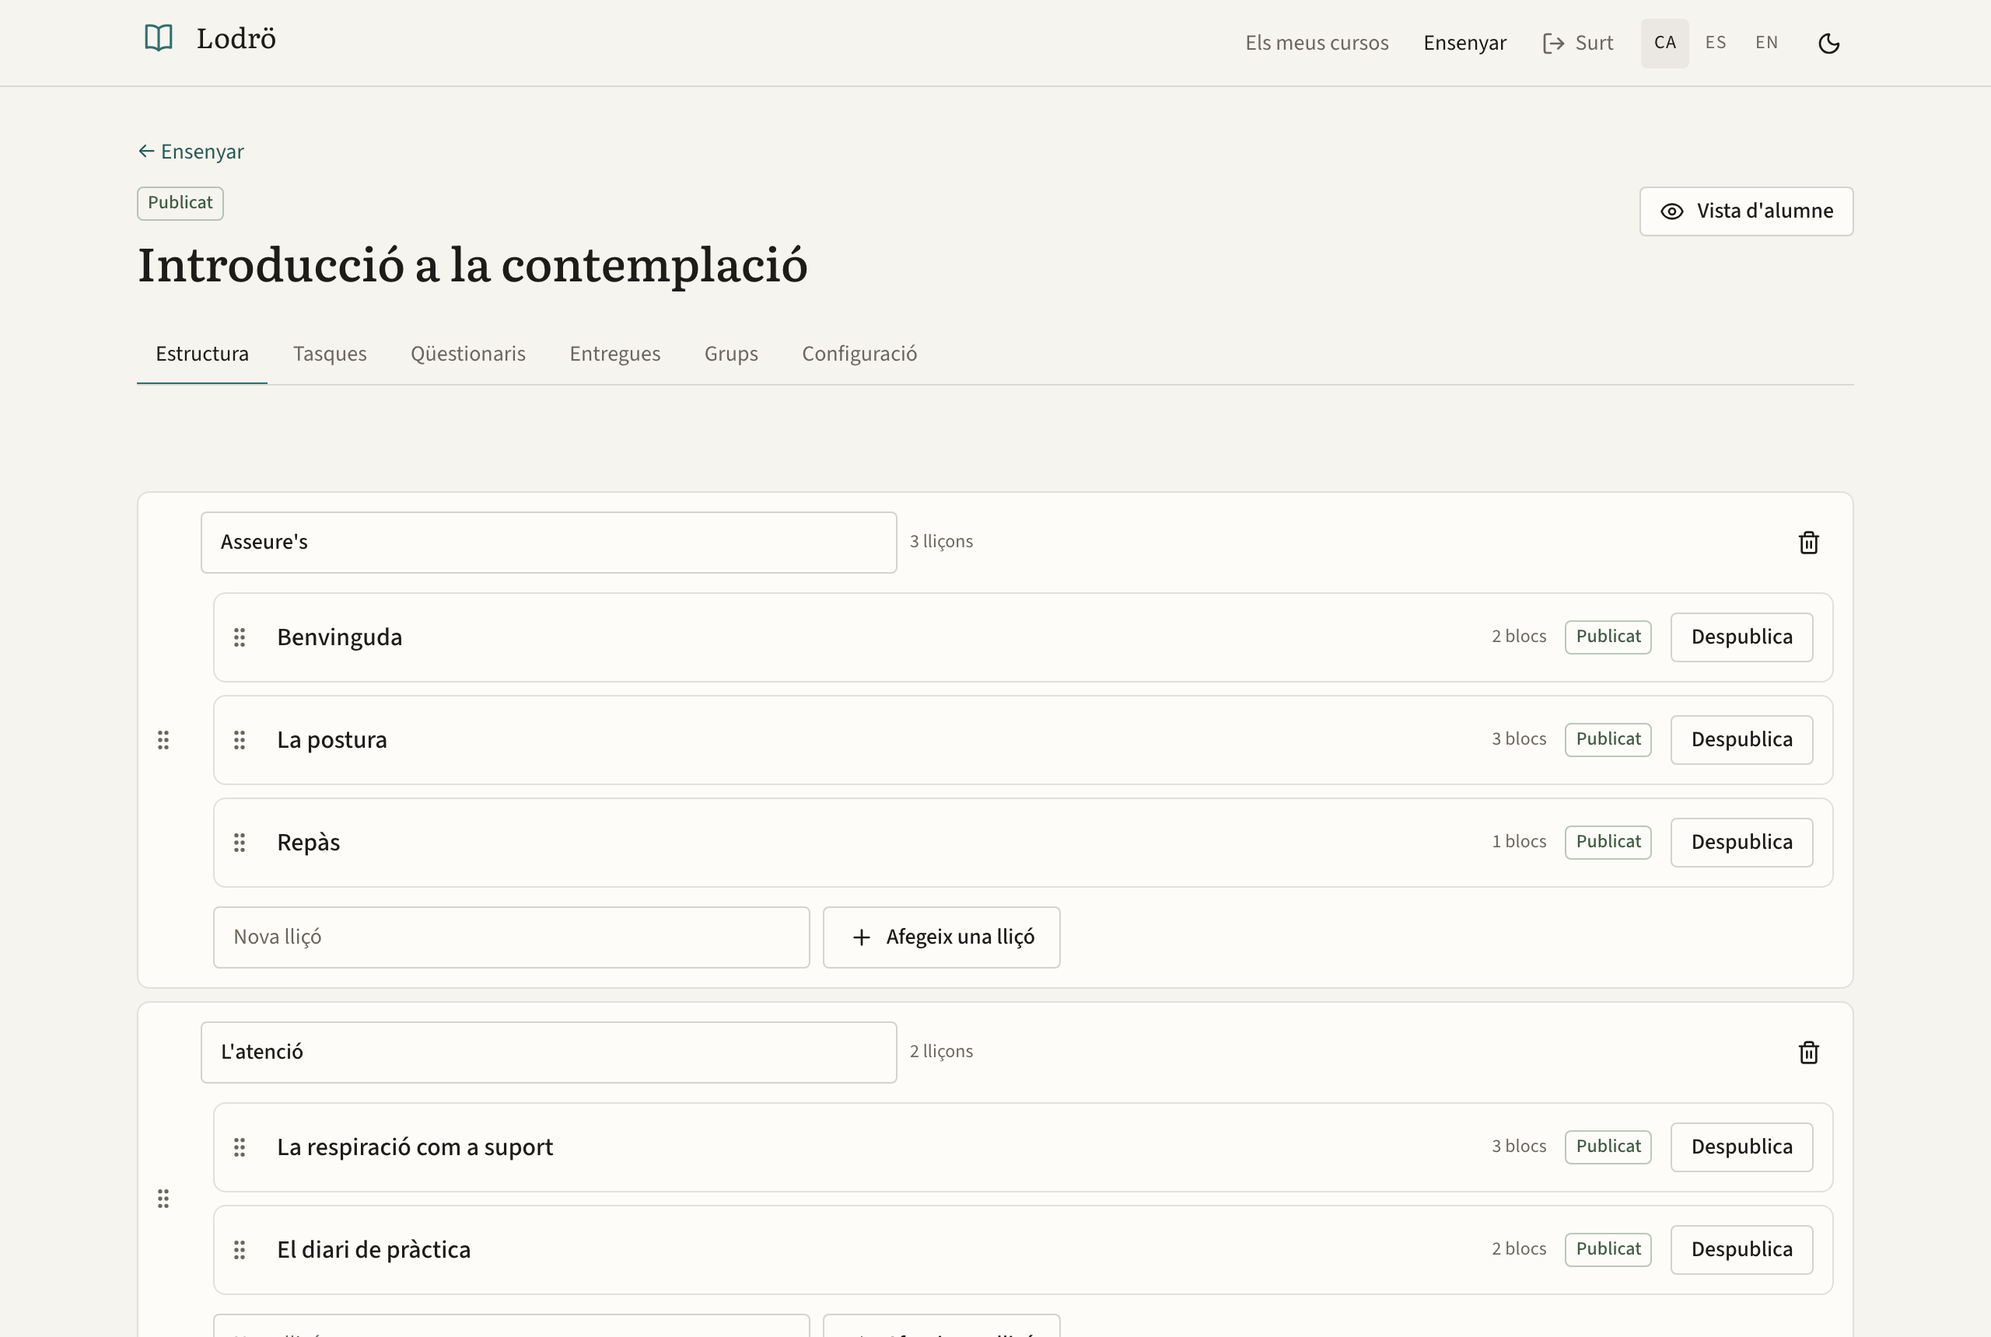
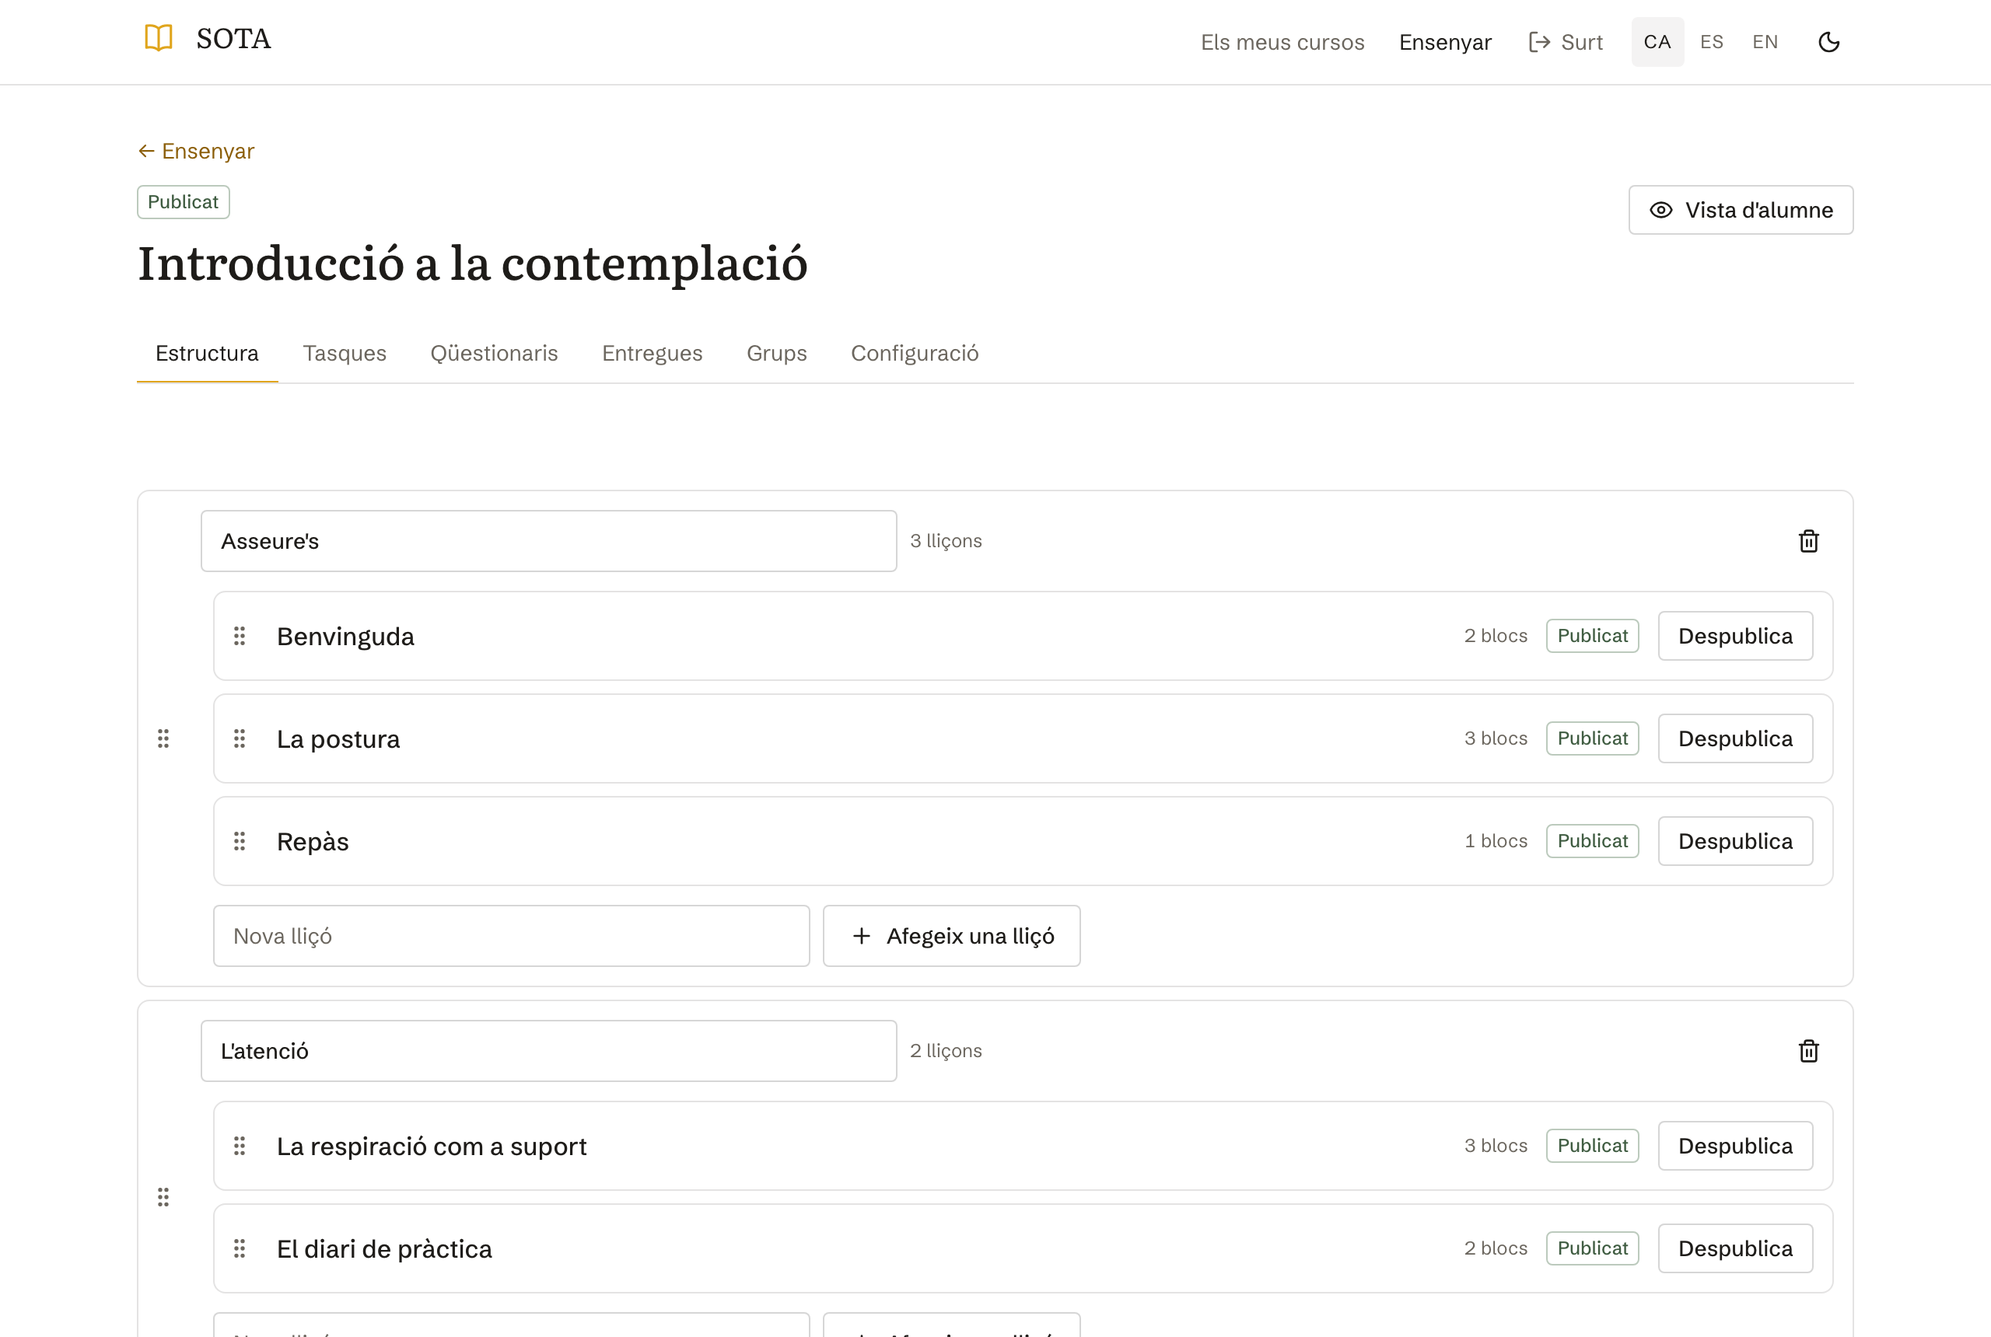
💄 Set Schibsted Grotesk for the interface, white page and gold accent

diff --git a/src/styles.css b/src/styles.css
@@ -1,8 +1,8 @@
 @import "tailwindcss";
 @import "@fontsource-variable/literata";
 @import "@fontsource-variable/literata/wght-italic.css";
-@import "@fontsource-variable/source-sans-3";
-@import "@fontsource-variable/source-sans-3/wght-italic.css";
+@import "@fontsource-variable/schibsted-grotesk";
+@import "@fontsource-variable/schibsted-grotesk/wght-italic.css";
 
 @custom-variant dark (&:is(.dark *));
 
@@ -61,7 +61,8 @@
 }
 
 :root {
-  --font-sans: "Source Sans 3 Variable", ui-sans-serif, system-ui, sans-serif;
+  --font-sans:
+    "Schibsted Grotesk Variable", ui-sans-serif, system-ui, "Segoe UI", Helvetica, Arial, sans-serif;
   --font-serif: "Literata Variable", Georgia, "Iowan Old Style", "Times New Roman", serif;
   --font-mono:
     ui-monospace, SFMono-Regular, Menlo, Monaco, Consolas, "Liberation Mono", "Courier New",
@@ -71,16 +72,16 @@
 
   /* Paper and ink. `--brand-*` may be overridden from lms.config.ts (see BrandStyle). */
   --ink: #1e1c19;
-  --paper: #f6f4ef;
-  --brand-primary: #2f6f6d;
-  --brand-primary-foreground: #f6f4ef;
-  --brand-link: #255a58;
+  --paper: #ffffff;
+  --brand-primary: #e0a51c;
+  --brand-primary-foreground: #1e1c19;
+  --brand-link: #8c5f0a;
 
   --background: var(--paper);
   --foreground: var(--ink);
-  --card: #fdfcf9;
+  --card: #ffffff;
   --card-foreground: var(--ink);
-  --popover: #fdfcf9;
+  --popover: #ffffff;
   --popover-foreground: var(--ink);
   --muted: --alpha(var(--ink) / 5%);
   --muted-foreground: #6b665e;
@@ -90,14 +91,14 @@
   --input: --alpha(var(--ink) / 18%);
   --primary: var(--brand-primary);
   --primary-foreground: var(--brand-primary-foreground);
-  --ring: var(--brand-primary);
+  --ring: var(--brand-link); /* gold is too light for a 3:1 focus ring on white */
   --secondary: --alpha(var(--ink) / 6%);
   --secondary-foreground: var(--ink);
   --link: var(--brand-link);
   --success: #587a5a;
   --success-foreground: #3f5c41;
-  --warning: #b8862d;
-  --warning-foreground: #7f5a17;
+  --warning: #c2661d;
+  --warning-foreground: #8a4712;
   --destructive: #a34a3e;
   --destructive-foreground: #8a3a30;
   --info: #4b6a8a;
@@ -108,9 +109,10 @@
 .dark {
   --ink: #e9e5dc;
   --paper: #161514;
-  --brand-primary: #7fb5b2;
+  --brand-primary: #f0c455;
   --brand-primary-foreground: #161514;
-  --brand-link: #8fc3c0;
+  --brand-link: #f0c455;
+  --ring: var(--brand-primary);
 
   --card: #1e1c1a;
   --popover: #1e1c1a;
@@ -122,8 +124,8 @@
   --secondary: --alpha(var(--ink) / 7%);
   --success: #8bab8c;
   --success-foreground: #a9c4aa;
-  --warning: #d1a655;
-  --warning-foreground: #e2c07d;
+  --warning: #dd8f52;
+  --warning-foreground: #e8ab7c;
   --destructive: #c8776b;
   --destructive-foreground: #dc9c92;
   --info: #93accb;
@@ -155,7 +157,7 @@
   h2,
   h3,
   h4 {
-    @apply font-semibold tracking-tight;
+    @apply font-semibold tracking-[-0.01em];
     text-wrap: balance;
   }
   a {

diff --git a/src/server/services/email/templates.ts b/src/server/services/email/templates.ts
@@ -33,11 +33,11 @@ function layout(
   cta: { label: string; url: string },
 ): Rendered {
   const text = [title, "", ...lines, "", `${cta.label}: ${cta.url}`, "", `— ${brand}`].join("\n");
-  const html = `<!doctype html><html><body style="margin:0;padding:24px;background:#f6f4ef;color:#1e1c19;font:16px/1.5 Georgia,serif">
-<div style="max-width:560px;margin:0 auto;background:#fdfcf9;border:1px solid rgba(30,28,25,.12);border-radius:8px;padding:28px">
+  const html = `<!doctype html><html><body style="margin:0;padding:24px;background:#ffffff;color:#1e1c19;font:16px/1.5 Georgia,serif">
+<div style="max-width:560px;margin:0 auto;background:#ffffff;border:1px solid rgba(30,28,25,.12);border-radius:8px;padding:28px">
 <h1 style="font-size:22px;font-weight:500;margin:0 0 16px">${esc(title)}</h1>
 ${lines.map((l) => `<p style="margin:0 0 12px">${esc(l)}</p>`).join("")}
-<p style="margin:24px 0 0"><a href="${esc(cta.url)}" style="display:inline-block;padding:10px 16px;background:#2f6f6d;color:#f6f4ef;text-decoration:none;border-radius:4px;font-family:system-ui,sans-serif;font-size:14px">${esc(cta.label)}</a></p>
+<p style="margin:24px 0 0"><a href="${esc(cta.url)}" style="display:inline-block;padding:10px 16px;background:#e0a51c;color:#1e1c19;text-decoration:none;border-radius:4px;font-family:system-ui,sans-serif;font-size:14px">${esc(cta.label)}</a></p>
 </div><p style="max-width:560px;margin:16px auto 0;font:12px system-ui,sans-serif;color:#6b665e">${esc(brand)}</p></body></html>`;
   return { subject: title, text, html };
 }

diff --git a/src/routes/_authed/admin/index.tsx b/src/routes/_authed/admin/index.tsx
@@ -22,9 +22,9 @@ function PeoplePage() {
   const navigate = useNavigate({ from: Route.fullPath });
   return (
     <div className="flex flex-col gap-4">
-      <div className="flex flex-wrap items-center justify-between gap-3">
-        <label className="flex w-full max-w-sm flex-col gap-1">
-          <span className="sr-only">{t("common.search")}</span>
+      <div className="flex flex-wrap items-end justify-between gap-3">
+        <label className="flex w-full max-w-sm flex-col gap-1.5">
+          <span className="text-sm font-medium">{t("common.search")}</span>
           <Input
             type="search"
             placeholder={t("admin.people.search")}

diff --git a/docs/DESIGN.md b/docs/DESIGN.md
@@ -1,7 +1,7 @@
 # SOTA — visual rules
 
-SOTA is a place to read, watch and think. The interface should feel like good paper: warm, quiet,
-legible, with one restrained accent and nothing that shouts. Light is the default (lessons are
+SOTA is a place to read, watch and think. The interface should feel like a well-set page: white,
+quiet, legible, with warm ink, one gold accent and nothing that shouts. Light is the default (lessons are
 read); dark is a stored preference. Depth comes from hairlines and spacing, not shadows. The tokens
 in `src/styles.css` are the only source of colour, radius, type and easing in the repo; brand
 overrides (name, logo, accent) come from `lms.config.ts` and are applied as CSS variables at the
@@ -9,18 +9,22 @@ root, never as new utilities.
 
 ## Palette roles
 
-| Token                                       | Light                                             | Dark       | Use                                                            |
-| ------------------------------------------- | ------------------------------------------------- | ---------- | -------------------------------------------------------------- |
-| `--background`                              | `#f6f4ef` paper                                   | `#161514`  | page canvas                                                    |
-| `--card` / `--popover`                      | `#fdfcf9`                                         | `#1e1c1a`  | surfaces                                                       |
-| `--foreground`                              | `#1e1c19` ink                                     | `#e9e5dc`  | text                                                           |
-| `--muted-foreground`                        | `#6b665e`                                         | `#a39d92`  | secondary text, metadata                                       |
-| `--border`                                  | ink at 12 %                                       | paper 10 % | hairlines                                                      |
-| `--accent`                                  | ink at 5 %                                        | paper 6 %  | hover and selected backgrounds                                 |
-| `--primary`                                 | `#2f6f6d` lake                                    | `#7fb5b2`  | **actions and progress only** — one filled button per screen   |
-| `--link`                                    | `#255a58`                                         | `#8fc3c0`  | inline links (darker than primary for AA on paper)             |
-| `--success` / `--warning` / `--destructive` | `#587a5a` moss · `#b8862d` amber · `#a34a3e` clay | tuned      | states, always paired with a word or glyph, never colour alone |
-| `--info`                                    | `#4b6a8a`                                         | `#93accb`  | neutral notices                                                |
+| Token                                       | Light                                            | Dark                              | Use                                                            |
+| ------------------------------------------- | ------------------------------------------------ | --------------------------------- | -------------------------------------------------------------- |
+| `--background`                              | `#ffffff`                                        | `#161514`                         | page canvas                                                    |
+| `--card` / `--popover`                      | `#ffffff`                                        | `#1e1c1a`                         | surfaces, set apart by a hairline, not by a fill               |
+| `--foreground`                              | `#1e1c19` ink                                    | `#e9e5dc`                         | text                                                           |
+| `--muted-foreground`                        | `#6b665e`                                        | `#a39d92`                         | secondary text, metadata                                       |
+| `--border`                                  | ink at 12 %                                      | paper 10 %                        | hairlines                                                      |
+| `--accent`                                  | ink at 5 %                                       | paper 6 %                         | hover and selected backgrounds                                 |
+| `--primary`                                 | `#e0a51c` gold, ink text (7.7:1)                 | `#f0c455`                         | **actions and progress only** — one filled button per screen   |
+| `--link`                                    | `#8c5f0a` ochre (5.6:1 on white)                 | `#f0c455`                         | inline links and the focus ring in light; gold is too pale     |
+| `--success` / `--warning` / `--destructive` | `#587a5a` moss · `#c2661d` rust · `#a34a3e` clay | `#8bab8c` · `#dd8f52` · `#c8776b` | states, always paired with a word or glyph, never colour alone |
+| `--info`                                    | `#4b6a8a`                                        | `#93accb`                         | neutral notices                                                |
+
+Each state colour has a `-foreground` twin for text (`#3f5c41`, `#8a4712`, `#8a3a30`, `#3c5670` in
+light) so words stay above 4.5:1 while the fill stays recognisable. Warning moved off gold when
+gold became the accent.
 
 **Never** a raw Tailwind palette utility (`slate-*`, `gray-*`, `emerald-*`) and never a hex in a
 component: a cool grey or a saturated blue in a view means the theme leaked.
@@ -30,20 +34,27 @@ component: a cool grey or a saturated blue in a view means the theme leaked.
 - **Literata** (variable, `@fontsource-variable/literata`) is the reading face: `h1`, course and
   lesson titles, and the lesson prose (`.prose`). It is a book face, so it carries long text well;
   keep it out of controls, tables and labels.
-- **Source Sans 3** (variable, `@fontsource-variable/source-sans-3`) for everything else. `h2`–`h4`
-  are `font-semibold tracking-tight`. Small labels may use `text-xs uppercase tracking-[0.06em]`,
-  sparingly — section eyebrows and status tags, not buttons.
+- **Schibsted Grotesk** (variable, `@fontsource-variable/schibsted-grotesk`) for everything else.
+  Its large x-height and dark 400 weight hold up in a 14 px table on a 1× screen, and the angled
+  terminals give it a voice without costing legibility. `h2`–`h4` are `font-semibold` with
+  `tracking-[-0.01em]`; Schibsted is already compact, so Tailwind's `tracking-tight` closes the
+  counters. Small labels may use `text-xs uppercase tracking-[0.06em]`, sparingly — section
+  eyebrows and status tags, not buttons.
 - Lesson prose: `max-w-[68ch]`, `text-[1.0625rem]`, `leading-[1.65]`; paragraphs separated by
-  space, not indents. Durations, counts and scores use `tabular-nums`.
-- Both faces are open licences shipped from npm; nothing in `public/fonts`.
+  space, not indents. Durations, counts and scores use `tabular-nums` on the cell or span that holds
+  them, never on a whole table: Schibsted's `tnum` also widens the full stop, so an email address in
+  a tabular row reads «example . invalid».
+- Both faces are open licences shipped from npm; nothing in `public/fonts`. If Schibsted reads too
+  dark on 1× Windows after real use, the fallback is `@fontsource-variable/atkinson-hyperlegible-next`
+  as a package swap and one name in `--font-sans`; no other token changes (ADR-009).
 
 ## Shape and depth
 
 - Two radii and nothing rounder: controls `rounded` = `--radius: 0.25rem`; surfaces (cards,
   dialogs, the player frame) `rounded-lg` = `--radius-surface: 0.5rem`. Badges are square-ish
   (`rounded`), not pills. Avatars are the one circle.
-- **No drop shadows, gradients, blur or translucency.** A surface is a hairline border on a
-  slightly lighter fill. Hover is a background shift to `--accent`; selected is `--accent` plus a
+- **No drop shadows, gradients, blur or translucency.** A surface is a hairline border on the
+  same white. Hover is a background shift to `--accent`; selected is `--accent` plus a
   2 px left rule in `--primary`; focus is a 2 px `--ring` outline with offset.
 - Progress is a 2 px rule (`ProgressRule`), never a ring or a percentage badge.
 - Lock states are text: a lock glyph plus «Available from 12 March» generated from the rule type.

diff --git a/docs/decisions/ADR-009-typography-and-palette.md b/docs/decisions/ADR-009-typography-and-palette.md
@@ -1,0 +1,51 @@
+# ADR-009 — Schibsted Grotesk for the interface, white page, gold accent
+
+**Date:** 2026-09-12 · **Status:** accepted
+
+## Context
+
+The first build shipped Literata for reading and Source Sans 3 for the interface on a warm paper
+background with a lake-green accent. Source Sans 3 is legible but anonymous, and the review
+asked for a UI face that stays readable in a dense 14 px admin table on a 1× screen while giving
+SOTA a recognisable voice. Five pairs were set on the same specimen (course title, eyebrow, lesson
+row, prose at 17 px / 1.65, a button, a table row with figures, a 12 px uppercase tag) and tested
+with Catalan and Spanish strings: «L·lúcia», «Sessió d'avaluació», «¿Qué aprenderás?», «Aïllar»,
+«façana», and `0123456789` in a table.
+
+| Pair                                   | Verdict                                                                                                     |
+| -------------------------------------- | ----------------------------------------------------------------------------------------------------------- |
+| Literata + Atkinson Hyperlegible Next  | Most legible face on the list; its slashed 0 and marked I/l make a people table look like a log file.       |
+| Newsreader + Public Sans               | One neutral face swapped for another; Newsreader gets spindly at 17 px without a large optical size.        |
+| Piazzolla + Hanken Grotesk             | Warmest pair and the runner-up; Hanken's 400 is lighter than Source Sans at 13 px, wrong for tables.        |
+| Source Serif 4 + **Schibsted Grotesk** | UI face wins: dark 400, large x-height, angled terminals keep glyphs apart. Source Serif is a lateral move. |
+| Literata + Instrument Sans             | Distinctive at 16 px and above, narrow letters crowd email addresses at 13 px.                              |
+
+Alegreya Sans and Spectral have no variable `@fontsource` build, Bricolage Grotesque has no
+italics and Fraunces is a display face, so they were dropped before the specimen.
+
+## Decision
+
+- **Literata stays** as the reading face; nothing on the list reads better in the lesson column and
+  it already has optical sizes, true italics and tabular figures.
+- **Schibsted Grotesk** replaces Source Sans 3 for everything else, via
+  `@fontsource-variable/schibsted-grotesk` (weights 400–900, italic, `tnum`).
+- `h2`–`h4` tracking goes from `-0.025em` to `-0.01em`; Schibsted is already compact.
+- `tabular-nums` stays per cell. The review proposed setting it once on `table`, but Schibsted's
+  `tnum` feature also gives the full stop a figure-width advance, which breaks email addresses and
+  identifiers in the same row.
+- The page becomes **white** (`--background` and `--card` `#ffffff`); surfaces are told apart by the
+  hairline alone. The accent becomes **gold** (`#e0a51c`, ink text, 7.7:1) with an ochre link colour
+  (`#8c5f0a`, 5.6:1 on white). In dark both are `#f0c455`. Warning moves off gold to a rust
+  (`#c2661d`, text `#8a4712`) so it cannot be mistaken for an action.
+- The focus ring in light uses the link colour, not the accent: gold on white is 2.2:1, below the
+  3:1 non-text minimum.
+- The admin people filter gets a visible label, as every other input already has.
+
+## Consequences
+
+- Two dependencies change; nothing is self-hosted from `public/fonts`.
+- The email template, the mock IdP page and the favicon carry the same values inline; they are the
+  only places outside `src/styles.css` where a colour is written, and they change together.
+- Fallback: if Schibsted reads too dark on 1× Windows after real use, swap the package for
+  `@fontsource-variable/atkinson-hyperlegible-next` and the first name in `--font-sans`. No token
+  changes.

diff --git a/CHANGELOG.md b/CHANGELOG.md
@@ -36,3 +36,8 @@ All notable changes to SOTA are documented here. The format follows
   video providers and the embed allowlist), `nosniff`, referrer and permissions policies, HSTS on
   HTTPS, in-process rate limiting on `/auth/*` and `/api/*`.
 - Deployment: production compose file, nginx sample, rsync + pm2 alternative, `docs/deploy.md`.
+
+### Changed
+
+- Schibsted Grotesk replaces Source Sans 3 as the interface face; the page is white with a gold
+  accent and an ochre link colour; warning moves to rust (ADR-009).
